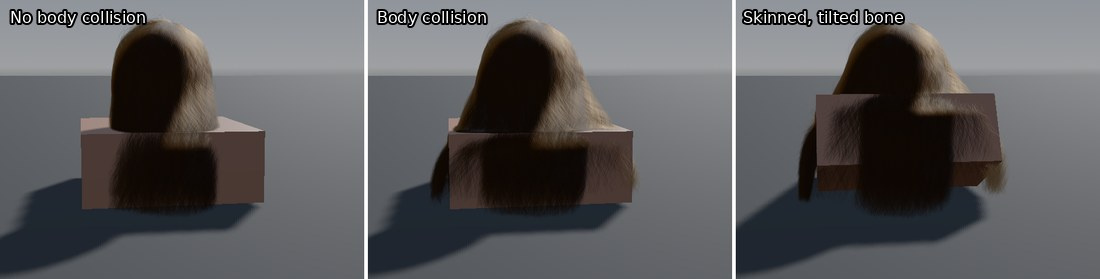
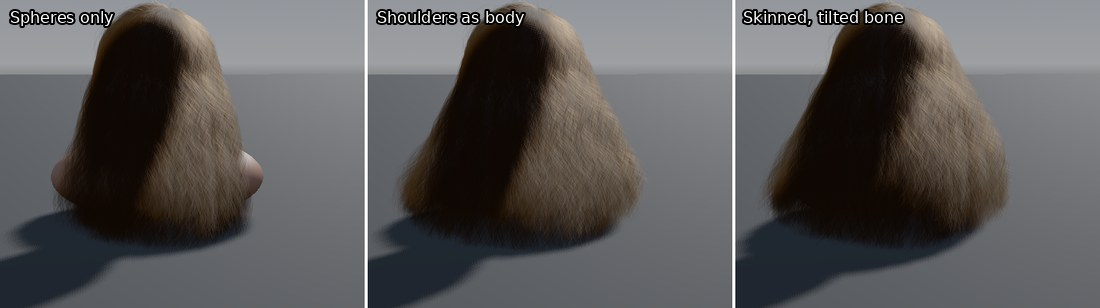
README: rounded-shoulder hair body collision image
Claude-Session: https://claude.ai/code/session_019a7Xd2PZ5gvYQ3NZ7og5rU

diff --git a/README.md b/README.md
@@ -207,9 +207,9 @@ Each feature that changes the look or the cost can be turned off with the settin
 
 *Distance LOD: fewer, wider strands far away, with the same look.*
 
-![Strand hair over a box body: no collision, body collision, body skinned to a tilted bone](docs/media/hair-body-collision.jpg)
+![Strand hair over rounded shoulders: spheres only, shoulders as the collision body, skinned to a tilted bone](docs/media/hair-body-collision.jpg)
 
-*Body collision: without it the hair falls through the shoulders; with it the hair drapes over them, also when the body is skinned and tilted.*
+*Body collision: with spheres only the hair sinks into the shoulders; with the shoulders as the body it drapes over them, also when skinned and tilted.*
 
 ![Strand hair shaking and in wind, hair volume off and on](docs/media/hair-volume.jpg)
 
